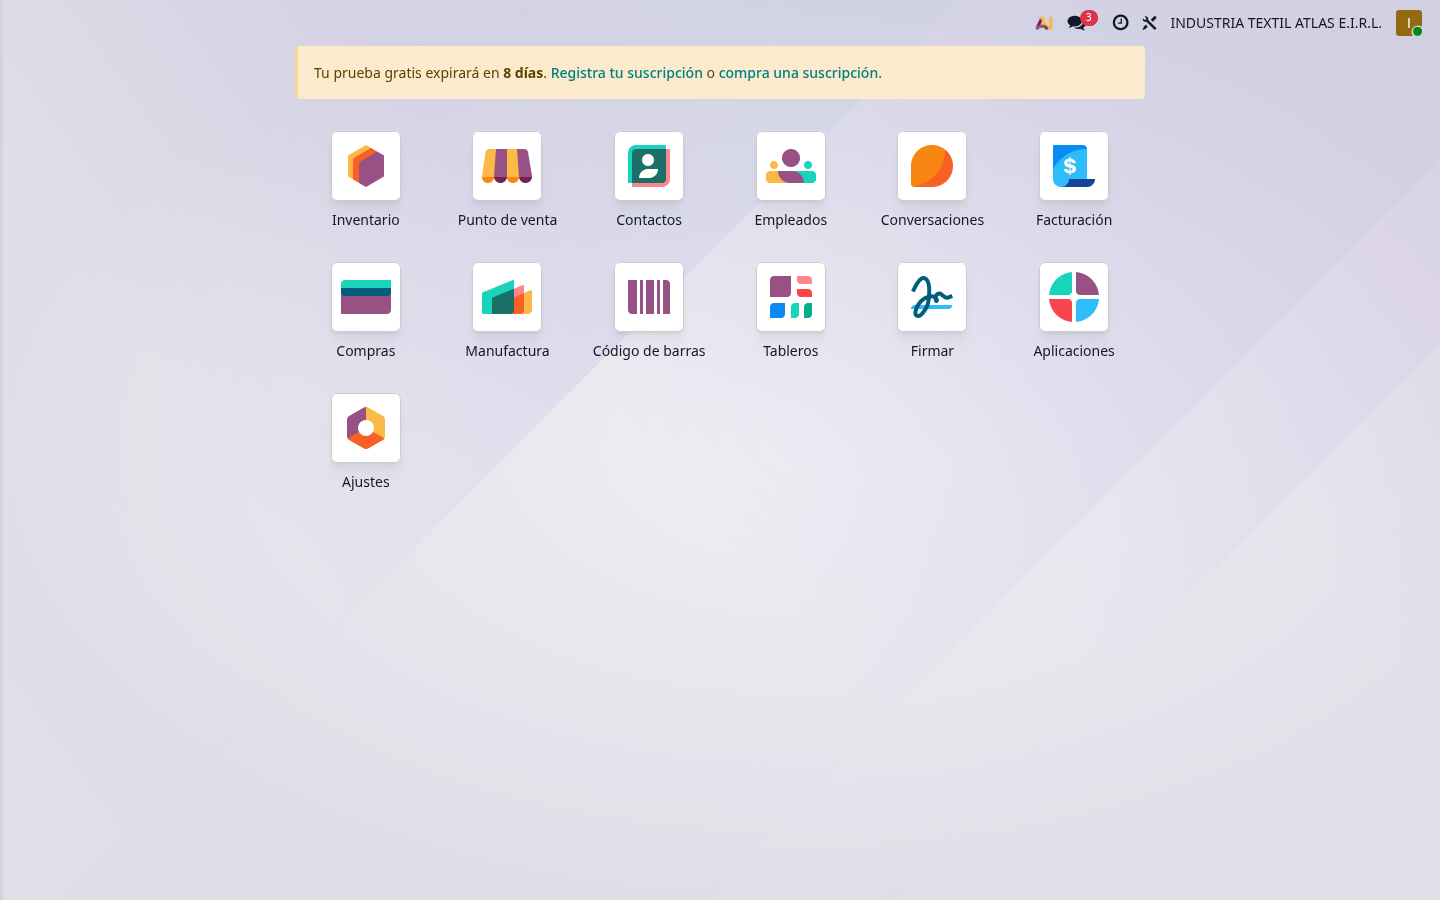
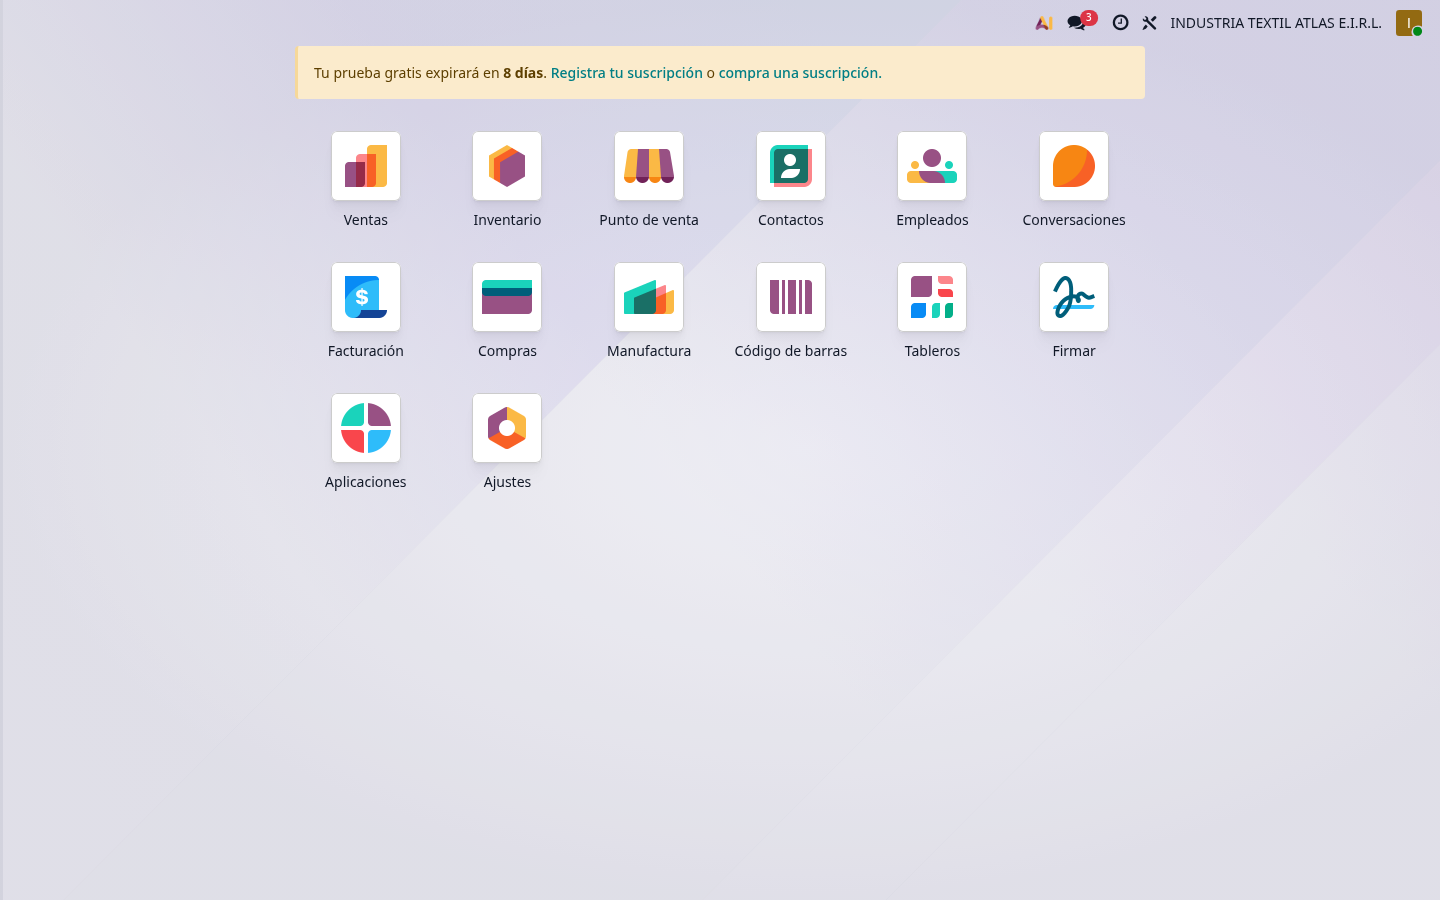
feat: add automated sales data generation scripts and capture documentation screenshots for Atlas project

diff --git a/knowledge/industria-textil-atlas/take_sales_screenshots.py b/knowledge/industria-textil-atlas/take_sales_screenshots.py
@@ -1,0 +1,147 @@
+#!/usr/bin/env python3
+"""
+Playwright script to capture the 4 new Sales-related screenshots for the Atlas project.
+Saves them to the 'media/' folder.
+"""
+
+import os
+import sys
+from playwright.sync_api import sync_playwright
+
+def main():
+    # Ensure media directory exists
+    os.makedirs("media", exist_ok=True)
+    
+    login_url = "https://industria-textil-atlas-test1.odoo.com/web/login"
+    username = "intex.atlas.eirl@gmail.com"
+    password = "tla.in/tex*25"
+    
+    print("==============================================")
+    print("📸 CAPTURING SALES SCREENSHOTS FOR ATLAS 📸")
+    print("==============================================")
+    
+    with sync_playwright() as p:
+        print("🚀 Launching browser...")
+        browser = p.chromium.launch(headless=True)
+        # Large screen size for premium screenshots
+        context = browser.new_context(viewport={"width": 1440, "height": 900})
+        page = context.new_page()
+        
+        # Log in
+        print("🔑 Logging in to Odoo...")
+        page.goto(login_url)
+        page.wait_for_timeout(2000)
+        page.fill("input#login", username)
+        page.fill("input#password", password)
+        page.click("button[type='submit']")
+        page.wait_for_url("**/odoo**", timeout=20000)
+        page.wait_for_timeout(5000)
+        print("✅ Logged in successfully.")
+
+        # --- PHOTO 1: Home page showing the Ventas icon ---
+        print("\n📸 [Photo 1] Capturing home page dashboard...")
+        # Make sure the home screen is fully loaded
+        page.goto("https://industria-textil-atlas-test1.odoo.com/odoo")
+        page.wait_for_timeout(5000)
+        
+        # Save screenshot
+        page.screenshot(path="odoo_apps.png")
+        page.screenshot(path="media/foto_home_con_ventas.png")
+        print("  ✅ Saved to 'odoo_apps.png' and 'media/foto_home_con_ventas.png'")
+
+        # --- PHOTO 2: Ventas List View ---
+        print("\n📸 [Photo 2] Navigating to Ventas module...")
+        # Let's try clicking the Ventas icon first, or direct URL navigation if click fails.
+        ventas_app = page.locator(".o_app:has-text('Ventas'), .o_app:has-text('Sales'), a:has-text('Ventas'), a:has-text('Sales')").first
+        if ventas_app.is_visible():
+            print("  Clicking Ventas app icon...")
+            ventas_app.click()
+            page.wait_for_timeout(5000)
+        else:
+            print("  App icon not found. Navigating directly to action-907...")
+            page.goto("https://industria-textil-atlas-test1.odoo.com/odoo/action-907")
+            page.wait_for_timeout(5000)
+            
+        # Ensure we are in list view
+        list_btn = page.locator("button.o_list").first
+        if list_btn.is_visible():
+            list_btn.click()
+            page.wait_for_timeout(2000)
+            
+        page.screenshot(path="media/foto_listado_ventas.png")
+        print("  ✅ Saved to 'media/foto_listado_ventas.png'")
+
+        # --- PHOTO 3: Detail Form View ---
+        print("\n📸 [Photo 3] Opening the first Sales Order detail view...")
+        first_row = page.locator(".o_list_table tbody tr.o_data_row").first
+        if first_row.is_visible():
+            print("  Clicking first sales order...")
+            first_row.click()
+            page.wait_for_timeout(5000)
+            page.screenshot(path="media/foto_detalle_venta.png")
+            print("  ✅ Saved to 'media/foto_detalle_venta.png'")
+        else:
+            print("  ❌ No row found in the table. Let's try navigating to a direct sales order view.")
+            # If the list was empty or couldn't load, let's navigate directly to action-907 and click again
+            page.goto("https://industria-textil-atlas-test1.odoo.com/odoo/action-907")
+            page.wait_for_timeout(5000)
+            first_row = page.locator(".o_list_table tbody tr.o_data_row").first
+            if first_row.is_visible():
+                first_row.click()
+                page.wait_for_timeout(5000)
+                page.screenshot(path="media/foto_detalle_venta.png")
+                print("  ✅ Saved to 'media/foto_detalle_venta.png'")
+            else:
+                print("  ❌ Still no row found. Capturing current screen anyway.")
+                page.screenshot(path="media/foto_detalle_venta.png")
+
+        # --- PHOTO 4: Customer Preview / PDF ---
+        print("\n📸 [Photo 4] Opening Customer Preview...")
+        # In Odoo, the Customer Preview button is usually named "Vista previa" or "Customer Preview" or "Vista previa cliente".
+        preview_btn = page.locator("button:has-text('Vista previa'), button:has-text('Customer Preview'), button:has-text('Vista previa cliente'), a:has-text('Vista previa'), a:has-text('Customer Preview'), a:has-text('Vista previa cliente')").first
+        if preview_btn.is_visible():
+            print(f"  Clicking Preview button: '{preview_btn.text_content().strip()}'")
+            try:
+                # We expect a new page, but let's set a shorter timeout (5000ms)
+                with context.expect_page(timeout=5000) as new_page_info:
+                    preview_btn.click()
+                preview_page = new_page_info.value
+                preview_page.wait_for_load_state("networkidle")
+                preview_page.wait_for_timeout(5000)
+                preview_page.screenshot(path="media/foto_pdf_cotizacion.png")
+                print("  ✅ Customer Preview screenshot saved from new tab.")
+            except Exception as e:
+                print(f"  No new tab opened ({e}). Checking if page navigated or has inline preview...")
+                page.wait_for_timeout(5000)
+                page.screenshot(path="media/foto_pdf_cotizacion.png")
+                print("  ✅ Customer Preview screenshot saved from current page/fallback.")
+        else:
+            print("  Preview button not found. Let's try searching for alternative ways, or capture the print PDF view if possible.")
+            # Try to look for action buttons or dropdown
+            action_btn = page.locator("button:has-text('Acción'), button:has-text('Action'), button.o_cp_action_menus").first
+            if action_btn.is_visible():
+                action_btn.click()
+                page.wait_for_timeout(1000)
+            
+            # Print button
+            print_btn = page.locator("button:has-text('Imprimir'), button:has-text('Print')").first
+            if print_btn.is_visible():
+                print_btn.click()
+                page.wait_for_timeout(1000)
+                pdf_option = page.locator("a:has-text('Presupuesto / Pedido'), a:has-text('Quotation / Order')").first
+                if pdf_option.is_visible():
+                    print("  Found 'Presupuesto / Pedido' print option, click it.")
+                    pdf_option.click()
+                    page.wait_for_timeout(5000)
+            
+            # As a fallback, we'll try navigating to `/my/orders` or similar if we can find the sales order ID,
+            # or just take a screenshot of the detail page.
+            # Let's save a fallback screenshot
+            print("  ⚠ Fallback: Taking screenshot of the detail page as the document layout.")
+            page.screenshot(path="media/foto_pdf_cotizacion.png")
+
+        print("\n🎉 Screenshot task completed successfully!")
+        browser.close()
+
+if __name__ == '__main__':
+    main()

diff --git a/knowledge/industria-textil-atlas/create_sales_data.py b/knowledge/industria-textil-atlas/create_sales_data.py
@@ -1,0 +1,135 @@
+#!/usr/bin/env python3
+"""
+Script to generate and confirm multiple Sales Orders (sale.order) for Atlas.
+"""
+
+import sys
+import os
+from datetime import datetime, timedelta
+sys.path.insert(0, os.path.join(os.path.dirname(__file__), '../..'))
+
+from odoo_cli import OdooClient
+
+def main():
+    client = OdooClient()
+    client.connect()
+    
+    print("==============================================")
+    print("🚀 GENERATING SALES ORDERS FOR ATLAS 🚀")
+    print("==============================================")
+    
+    # Check if sale.order exists
+    models = client.search_read('ir.model', domain=[['model', '=', 'sale.order']], fields=['model', 'name'])
+    if not models:
+        print("❌ Error: sale.order model not found. Is the 'sale' module installed?")
+        sys.exit(1)
+        
+    print(f"✅ Found model sale.order: {models[0]['name']}")
+    
+    # Get clients
+    clients = client.search_read('res.partner', domain=[['customer_rank', '>', 0]], fields=['id', 'name'])
+    client_ids = [c['id'] for c in clients]
+    if len(client_ids) < 5:
+        print("❌ Error: Less than 5 clients found. Run generate_all_data.py first.")
+        sys.exit(1)
+        
+    # Get products
+    products = client.search_read(
+        'product.product',
+        domain=[['default_code', 'in', ['POLO-PIQUE', 'CAMISA-OXFORD', 'PANTALON-CHINO', 'CASACA-CORTAVIENTO', 'POLERA-CAPUCHA']]],
+        fields=['id', 'name', 'default_code', 'list_price']
+    )
+    product_map = {}
+    for p in products:
+        product_map[p['default_code']] = {
+            'id': p['id'],
+            'name': p['name'],
+            'list_price': p['list_price']
+        }
+        
+    # Sales orders data (Quotations to create)
+    sales_orders_data = [
+        # Sale 1: Juan Carlos Quispe - Large order of Polos & Camisas
+        {
+            'partner_id': client_ids[0],
+            'warehouse_id': 1, # Almacén Tienda
+            'date_order': (datetime.now() - timedelta(days=3)).strftime('%Y-%m-%d %H:%M:%S'),
+            'lines': [
+                (product_map['POLO-PIQUE']['id'], 50, product_map['POLO-PIQUE']['list_price']),
+                (product_map['CAMISA-OXFORD']['id'], 20, product_map['CAMISA-OXFORD']['list_price'])
+            ]
+        },
+        # Sale 2: Ana María Condori - Order of Pantalones & Casacas
+        {
+            'partner_id': client_ids[1],
+            'warehouse_id': 1,
+            'date_order': (datetime.now() - timedelta(days=2)).strftime('%Y-%m-%d %H:%M:%S'),
+            'lines': [
+                (product_map['PANTALON-CHINO']['id'], 15, product_map['PANTALON-CHINO']['list_price']),
+                (product_map['CASACA-CORTAVIENTO']['id'], 10, product_map['CASACA-CORTAVIENTO']['list_price'])
+            ]
+        },
+        # Sale 3: Carlos Alberto Sánchez - Large corporate order of Poleras
+        {
+            'partner_id': client_ids[2],
+            'warehouse_id': 1,
+            'date_order': (datetime.now() - timedelta(days=1)).strftime('%Y-%m-%d %H:%M:%S'),
+            'lines': [
+                (product_map['POLERA-CAPUCHA']['id'], 40, product_map['POLERA-CAPUCHA']['list_price']),
+                (product_map['POLO-PIQUE']['id'], 30, product_map['POLO-PIQUE']['list_price'])
+            ]
+        },
+        # Sale 4: Patricia Fiorella Torres - Mixed order
+        {
+            'partner_id': client_ids[3],
+            'warehouse_id': 1,
+            'date_order': datetime.now().strftime('%Y-%m-%d %H:%M:%S'),
+            'lines': [
+                (product_map['CAMISA-OXFORD']['id'], 12, product_map['CAMISA-OXFORD']['list_price']),
+                (product_map['PANTALON-CHINO']['id'], 8, product_map['PANTALON-CHINO']['list_price']),
+                (product_map['POLERA-CAPUCHA']['id'], 10, product_map['POLERA-CAPUCHA']['list_price'])
+            ]
+        }
+    ]
+    
+    # Check if warehouse_id is in fields
+    sale_fields = client.execute('sale.order', 'fields_get', [], {})
+    has_warehouse = 'warehouse_id' in sale_fields
+    print(f"ℹ Model sale.order has warehouse_id field: {has_warehouse}")
+
+    # Create and confirm
+    for idx, so_data in enumerate(sales_orders_data, 1):
+        print(f"Creating Sales Order #{idx}...")
+        order_lines = []
+        for prod_id, qty, price in so_data['lines']:
+            # Find product name
+            pname = [p['name'] for p in products if p['id'] == prod_id][0]
+            order_lines.append((0, 0, {
+                'product_id': prod_id,
+                'product_uom_qty': qty,
+                'price_unit': price,
+                'name': pname
+            }))
+            
+        create_vals = {
+            'partner_id': so_data['partner_id'],
+            'date_order': so_data['date_order'],
+            'order_line': order_lines
+        }
+        if has_warehouse:
+            create_vals['warehouse_id'] = so_data['warehouse_id']
+
+        so_id = client.create('sale.order', create_vals)
+        print(f"  Quotation created with ID: {so_id}")
+        
+        # Confirm quotation to make it a Sales Order
+        print(f"  Confirming Sales Order {so_id}...")
+        client.execute('sale.order', 'action_confirm', [so_id])
+        print(f"  ✅ Sales Order {so_id} confirmed.")
+
+    print("\n==============================================")
+    print("🎉 ALL SALES ORDERS GENERATED SUCCESSFULLY 🎉")
+    print("==============================================")
+
+if __name__ == '__main__':
+    main()

diff --git a/knowledge/industria-textil-atlas/README.md b/knowledge/industria-textil-atlas/README.md
@@ -51,7 +51,15 @@ El proyecto utiliza los almacenes reales preexistentes en la base de datos de Od
   python knowledge/industria-textil-atlas/verify_stock_and_partners.py
   ```
 
-### 4. Utilidades y Diagnóstico
+### 4. Generación de Órdenes de Venta (Ventas)
+* **Archivo:** [create_sales_data.py](file:///home/acide/py-odoo-cli/knowledge/industria-textil-atlas/create_sales_data.py)
+* **Descripción:** Genera presupuestos (cotizaciones) y los confirma como Pedidos de Venta (`sale.order`) en Odoo para los clientes peruanos creados previamente.
+* **Ejecución:**
+  ```bash
+  python knowledge/industria-textil-atlas/create_sales_data.py
+  ```
+
+### 5. Utilidades y Diagnóstico
 * [cleanup_warehouses.py](file:///home/acide/py-odoo-cli/knowledge/industria-textil-atlas/cleanup_warehouses.py) / [force_cleanup.py](file:///home/acide/py-odoo-cli/knowledge/industria-textil-atlas/force_cleanup.py): Scripts para aislar y renombrar/desactivar almacenes e ubicaciones obsoletas.
 * [make_products_storable.py](file:///home/acide/py-odoo-cli/knowledge/industria-textil-atlas/make_products_storable.py): Habilita el seguimiento físico de inventario para los productos del catálogo.
 
